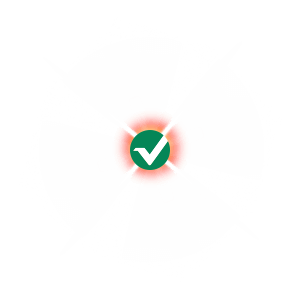
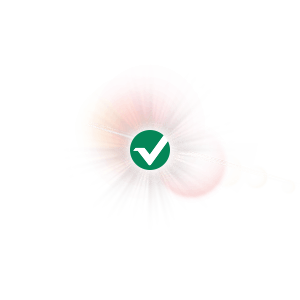
Vertcoin update

Changed region(s): [[0.3, 0.33, 0.75, 0.66]]

diff --git a/src/containers/Sandbox.tsx b/src/containers/Sandbox.tsx
@@ -201,7 +201,7 @@ const Sandbox: React.FC<Props> = ({ laser = Laser.Gold, portrait }: Props) => {
       stageRef.current.toImage({
         pixelRatio: 3,
         callback(img: any) {
-          download(img.src, "crypto-laser-eyes.png")
+          download(img.src, "vertcoin-laser-eyes.png")
         },
       })
     }
@@ -240,7 +240,7 @@ const Sandbox: React.FC<Props> = ({ laser = Laser.Gold, portrait }: Props) => {
                 as="a"
                 target="_blank"
                 rel="noreferrer"
-                href="https://twitter.com/intent/tweet?text=Join%20the%20revolution.%20Be%20part%20of%20the%20laser%20eye%20family%20and%20update%20your%20profile%20picture%20today!&url=https%3A%2F%2Fcryptolasereyes.com&hashtags=LaserRayUntil100K"
+                href="https://twitter.com/intent/tweet?text=Join%20the%20revolution%20-%20Gaming%20while%20Mining%20Vertcoin.%20Be%20part%20of%20the%20laser%20eye%20family%20and%20update%20your%20profile%20picture%20today!&url=https%3A%2F%2Fvertcoin-laser-eyes.com&hashtags=LaserRayUntil100K&hashtags=GamingwhileMining"
               >
                 <SvgIcon iconKey="share" />
                 <span>Share</span>

diff --git a/src/containers/Social.tsx b/src/containers/Social.tsx
@@ -47,10 +47,10 @@ const Social: React.FC<Props> = () => {
       <span>
         {"Powered by Vertcoin Community "}
       </span>
-      <SocialLink href="https://twitter.com/vertcoin" target="_blank" rel="noreferrer">
-        <SvgIcon iconKey="twitter" />
+      <SocialLink href="https://discord.gg/vertcoin" target="_blank" rel="noreferrer">
+        <SvgIcon iconKey="discord" />
       </SocialLink>
-      <SocialLink href="https://github.com/stakefish/crypto-laser-eyes" target="_blank" rel="noreferrer">
+      <SocialLink href="https://github.com/HotSmoke89/vertcoin-laser-eyes" target="_blank" rel="noreferrer">
         <SvgIcon iconKey="github" />
       </SocialLink>
     </Wrapper>

diff --git a/src/containers/Header.tsx b/src/containers/Header.tsx
@@ -54,8 +54,8 @@ const Header: React.FC<Props> = () => {
         <Row middle="xs" center="xs" between="sm">
           <Col>
             <Logo>
-              <img src="images/logo.svg" alt="" />
-              Vertcoin <span>laser eyes</span>
+              <img src="images/logo.svg" alt="vertcoin-laser-eyes.com" />
+              Vertcoin-<span>laser-eyes.com</span>
             </Logo>
           </Col>
 

diff --git a/src/layouts/theme.ts b/src/layouts/theme.ts
@@ -40,7 +40,7 @@ export const theme = {
       black: 900,
     },
     colors: {
-      primary: "#FC6F55",
+      primary: "#048657",
       secondary: "#0F0F0F",
       tertiary: "#3F5FBF",
       dark: "#252628",
